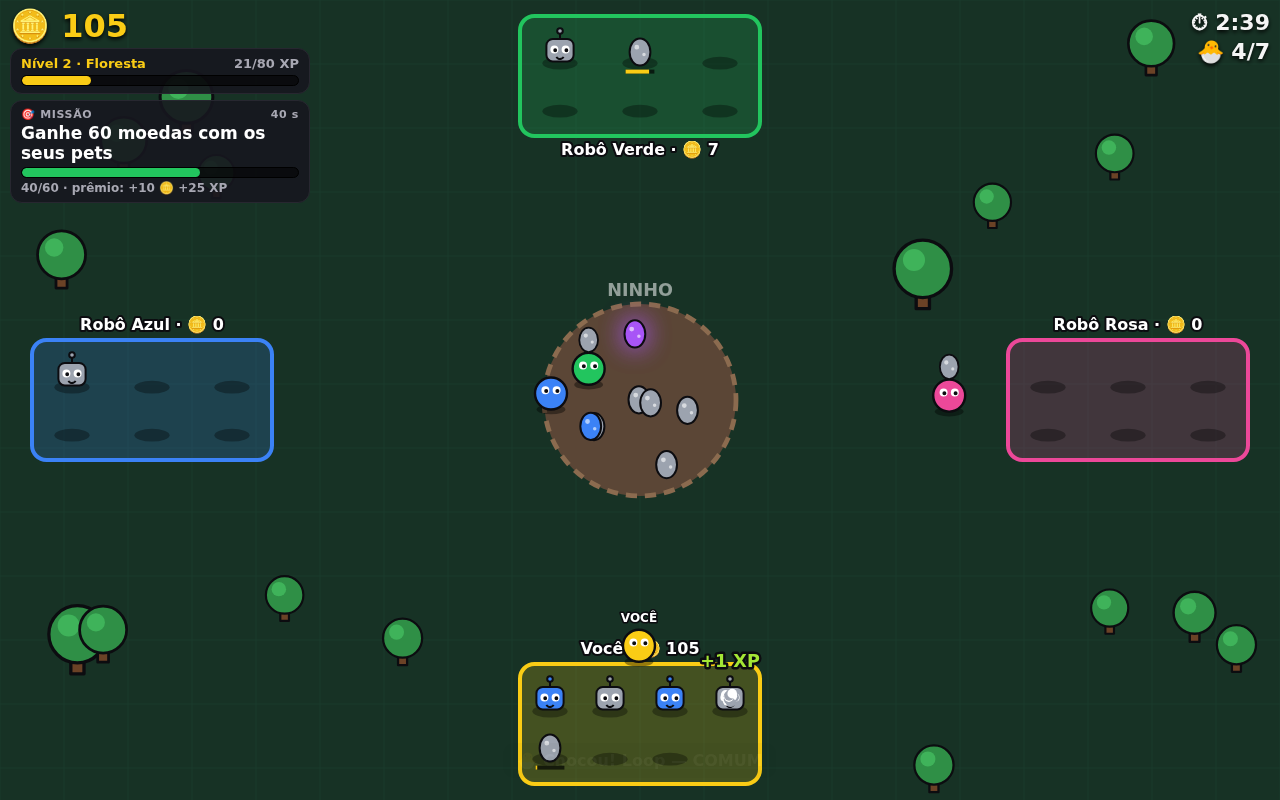
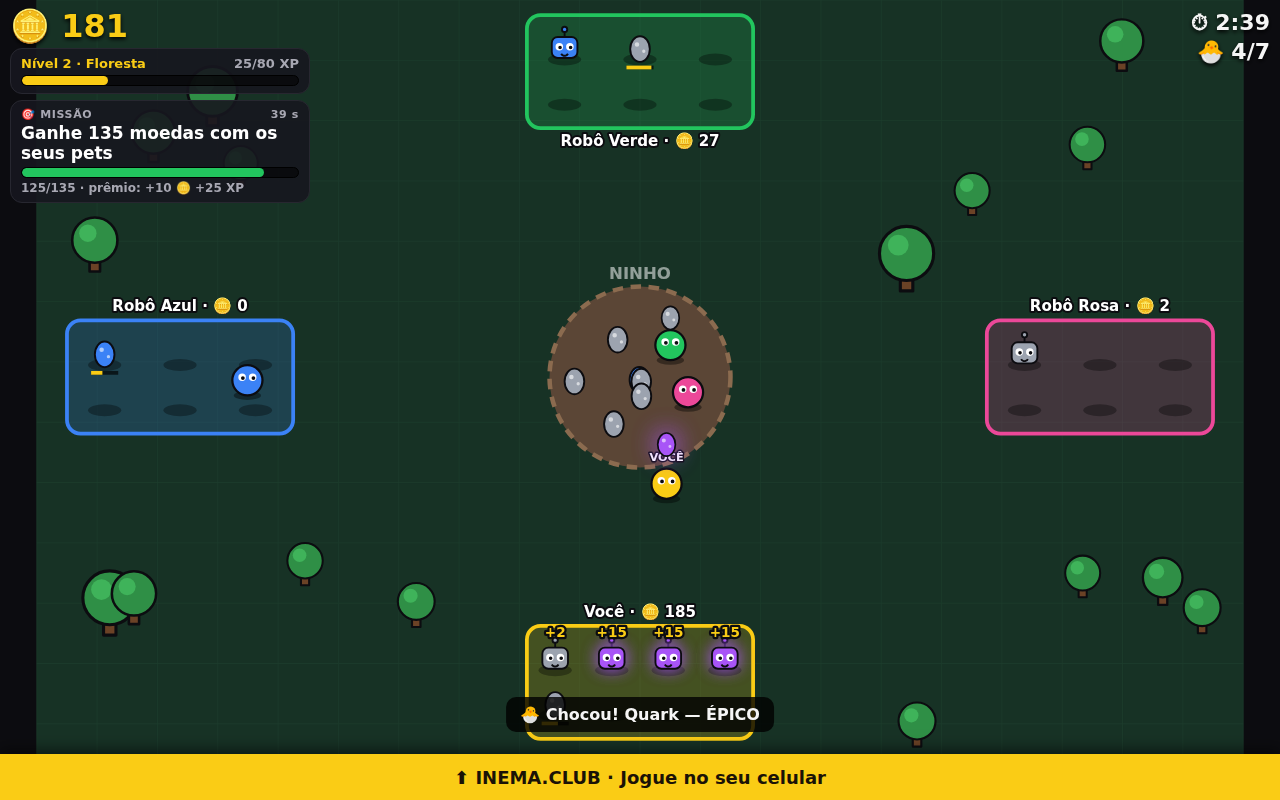
roube o ovo v0.3.0: painel INEMA.CLUB + QR embaixo do jogo

diff --git a/10-fabrica-de-jogos/jogos/roube-o-ovo/index.html b/10-fabrica-de-jogos/jogos/roube-o-ovo/index.html
@@ -6,14 +6,17 @@
 <title>Roube o Ovo — Fábrica de Jogos INEMA</title>
 <style>
   :root { --amarelo:#FACC15; --preto:#0c0c10; --texto:#f5f5f5; --painel:#16161ee6; --borda:#272730 }
-  html,body { margin:0; height:100%; background:var(--preto); color:var(--texto); overflow:hidden;
-              touch-action:none; user-select:none; -webkit-user-select:none; font-family:system-ui,-apple-system,"Segoe UI",sans-serif }
-  canvas { display:block; width:100vw; height:100vh }
+  /* a página rola (para mostrar o painel INEMA.CLUB embaixo), mas o jogo fica fixo atrás */
+  html { overflow-x:hidden; overflow-y:auto; overscroll-behavior:none }
+  html,body { margin:0; background:var(--preto); color:var(--texto);
+              touch-action:pan-y; user-select:none; -webkit-user-select:none; font-family:system-ui,-apple-system,"Segoe UI",sans-serif }
+  /* só o canvas trava o gesto (arrastar o dedo = mover o jogador) */
+  #c { display:block; position:fixed; inset:0; width:100vw; height:100vh; touch-action:none }
 
   /* HUD: painel da esquerda (moedas, nível, missão) e tempo/pets na direita */
   #hud { position:fixed; top:10px; left:10px; right:10px; display:flex; justify-content:space-between; align-items:flex-start; gap:8px;
          pointer-events:none; font-weight:800; text-shadow:0 2px 4px #000 }
-  #painel { display:flex; flex-direction:column; gap:6px; width:min(300px, 62vw) }
+  #hud-esq { display:flex; flex-direction:column; gap:6px; width:min(300px, 62vw) }
   #hud-moedas { font-size:clamp(22px,3.4vw,32px); color:var(--amarelo); line-height:1 }
   #hud-dir { display:flex; flex-direction:column; align-items:flex-end; gap:4px; font-size:clamp(16px,2.4vw,22px) }
   .cartao { background:var(--painel); border:1px solid var(--borda); border-radius:12px; padding:7px 10px; text-shadow:none }
@@ -29,7 +32,7 @@
   #missao.festa { animation:pop .9s ease-out }
   @keyframes pop { 0%{transform:scale(1)} 25%{transform:scale(1.12); background:#FACC15; color:#1a1206} 100%{transform:scale(1)} }
 
-  #botoes { position:fixed; right:14px; bottom:16px; display:flex; flex-direction:column; gap:10px }
+  #botoes { position:fixed; right:14px; bottom:62px; display:flex; flex-direction:column; gap:10px }
   .btn { background:var(--amarelo); color:#1a1206; border:0; border-radius:12px; font-weight:800;
          padding:12px 16px; font-size:clamp(14px,2vw,17px); cursor:pointer; box-shadow:0 4px 0 #a16207 }
   .btn:disabled { background:#555; color:#bbb; box-shadow:none }
@@ -42,7 +45,7 @@
   #tela table { margin:10px auto; border-collapse:collapse; font-size:17px }
   #tela td { padding:4px 12px; text-align:left }
   #tela .nv { display:inline-block; background:#1f2937; border-radius:10px; padding:8px 14px; font-weight:800; color:var(--amarelo) }
-  #aviso { position:fixed; left:50%; bottom:22px; transform:translateX(-50%); background:#000c; padding:8px 14px; border-radius:10px;
+  #aviso { position:fixed; left:50%; bottom:68px; transform:translateX(-50%); background:#000c; padding:8px 14px; border-radius:10px;
            font-weight:700; pointer-events:none; opacity:0; transition:opacity .3s; max-width:calc(100% - 150px); text-align:center; font-size:clamp(13px,2vw,16px) }
   /* faixa grande de comemoração (missão e nível) */
   #festa { position:fixed; left:50%; top:38%; transform:translate(-50%,-50%); text-align:center; pointer-events:none; opacity:0; z-index:4; width:90% }
@@ -53,12 +56,28 @@
                      20%{transform:translate(-50%,-50%) scale(1)} 80%{opacity:1} 100%{opacity:0; transform:translate(-50%,-60%) scale(1)} }
   .hidden { display:none !important }
   pre { text-align:left; background:#0b0b0f; padding:10px; border-radius:10px; overflow:auto; max-height:40vh; font-size:12px; white-space:pre-wrap }
+
+  /* ---------- painel INEMA.CLUB embaixo do jogo (deslize a tela para cima) ---------- */
+  #rolagem { position:relative; z-index:4; pointer-events:none }
+  #espaco { height:calc(100vh - 46px); height:calc(100dvh - 46px) }
+  #painel { pointer-events:auto; background:var(--preto); touch-action:pan-y; text-align:center; padding-bottom:28px }
+  #puxador { display:block; width:100%; height:46px; border:0; background:var(--amarelo); color:#1a1206; cursor:pointer;
+             font:800 clamp(14px,3.8vw,18px)/46px Sora,system-ui,sans-serif; box-shadow:0 -4px 14px #0008 }
+  #painel .faixa-g { background:var(--amarelo); color:#1a1206; font:800 clamp(24px,7vw,44px)/1.15 Sora,system-ui,sans-serif;
+                     padding:22px 16px 26px; border-top:4px solid var(--preto) }
+  #painel .faixa-g b { display:inline-block; background:var(--preto); color:var(--amarelo); padding:2px 14px; border-radius:10px; margin-top:8px }
+  #painel .qr-g { display:inline-block; background:#fff; color:#111; border-radius:16px; padding:14px 14px 10px; margin:22px 16px 10px }
+  #painel .qr-g svg { width:min(64vw,260px); height:auto; display:block }
+  #painel .qr-g p { margin:8px 0 0; font-weight:800 }
+  #painel .acoes-p { display:flex; gap:10px; justify-content:center; flex-wrap:wrap; margin:12px 16px }
+  #painel .txt-p { color:#d4d4d8; max-width:520px; margin:10px auto 0; padding:0 16px; line-height:1.5 }
+  #painel a { color:var(--amarelo) }
 </style>
 </head>
 <body>
 <canvas id="c"></canvas>
 <div id="hud">
-  <div id="painel">
+  <div id="hud-esq">
     <div id="hud-moedas">🪙 0</div>
     <div id="nivel" class="cartao">
       <div class="linha1"><span id="nv-txt">Nível 1 · Floresta</span><span id="xp-txt">0/40 XP</span></div>
@@ -79,11 +98,27 @@
   <button class="btn" id="b-tranca">🔒 Trancar</button>
   <button class="btn sec" id="b-turbo">⚡ Turbo</button>
 </div>
+<div id="rolagem">
+  <div id="espaco"></div>
+  <div id="painel">
+    <button id="puxador">⬆ INEMA.CLUB · Jogue no seu celular</button>
+    <div class="faixa-g">Aprenda a criar jogos com IA<br>de graça<br><b>INEMA.CLUB</b></div>
+    <div class="qr-g"><div id="qr-painel"></div><p>📱 Jogue no seu celular</p></div>
+    <div class="acoes-p">
+      <button class="btn" id="p-baixar">⬇ Baixar o jogo</button>
+      <button class="btn" id="p-voltar">⬆ Voltar ao jogo</button>
+    </div>
+    <p class="txt-p">Baixe o jogo, abra num editor de texto e mude o <b>CONFIG</b>. Depois peça para uma IA criar robôs, pets, missões e cenários novos.
+      Mais jogos na <a href="../../">Fábrica de Jogos INEMA</a> · cursos grátis em <a href="https://inema.club" target="_blank" rel="noopener">inema.club</a></p>
+  </div>
+</div>
 <div id="tela"><div class="caixa" id="tela-conteudo"></div></div>
+<!-- QR code com o endereço do jogo (vem do arquivo qr-jogo.svg; fica aqui dentro para funcionar sem internet) -->
+<template id="tpl-qr"><svg version="1.1" viewBox="0 0 41 41" xmlns="http://www.w3.org/2000/svg"><path d="M2,2H3V3H2zM3,2H4V3H3zM4,2H5V3H4zM5,2H6V3H5zM6,2H7V3H6zM7,2H8V3H7zM8,2H9V3H8zM10,2H11V3H10zM12,2H13V3H12zM13,2H14V3H13zM14,2H15V3H14zM16,2H17V3H16zM17,2H18V3H17zM20,2H21V3H20zM21,2H22V3H21zM23,2H24V3H23zM25,2H26V3H25zM27,2H28V3H27zM28,2H29V3H28zM29,2H30V3H29zM30,2H31V3H30zM32,2H33V3H32zM33,2H34V3H33zM34,2H35V3H34zM35,2H36V3H35zM36,2H37V3H36zM37,2H38V3H37zM38,2H39V3H38zM2,3H3V4H2zM8,3H9V4H8zM11,3H12V4H11zM12,3H13V4H12zM14,3H15V4H14zM18,3H19V4H18zM22,3H23V4H22zM26,3H27V4H26zM28,3H29V4H28zM32,3H33V4H32zM38,3H39V4H38zM2,4H3V5H2zM4,4H5V5H4zM5,4H6V5H5zM6,4H7V5H6zM8,4H9V5H8zM11,4H12V5H11zM13,4H14V5H13zM14,4H15V5H14zM15,4H16V5H15zM16,4H17V5H16zM17,4H18V5H17zM19,4H20V5H19zM21,4H22V5H21zM22,4H23V5H22zM23,4H24V5H23zM28,4H29V5H28zM30,4H31V5H30zM32,4H33V5H32zM34,4H35V5H34zM35,4H36V5H35zM36,4H37V5H36zM38,4H39V5H38zM2,5H3V6H2zM4,5H5V6H4zM5,5H6V6H5zM6,5H7V6H6zM8,5H9V6H8zM10,5H11V6H10zM11,5H12V6H11zM13,5H14V6H13zM15,5H16V6H15zM17,5H18V6H17zM18,5H19V6H18zM20,5H21V6H20zM21,5H22V6H21zM22,5H23V6H22zM25,5H26V6H25zM27,5H28V6H27zM32,5H33V6H32zM34,5H35V6H34zM35,5H36V6H35zM36,5H37V6H36zM38,5H39V6H38zM2,6H3V7H2zM4,6H5V7H4zM5,6H6V7H5zM6,6H7V7H6zM8,6H9V7H8zM10,6H11V7H10zM11,6H12V7H11zM12,6H13V7H12zM13,6H14V7H13zM15,6H16V7H15zM16,6H17V7H16zM20,6H21V7H20zM25,6H26V7H25zM28,6H29V7H28zM29,6H30V7H29zM30,6H31V7H30zM32,6H33V7H32zM34,6H35V7H34zM35,6H36V7H35zM36,6H37V7H36zM38,6H39V7H38zM2,7H3V8H2zM8,7H9V8H8zM10,7H11V8H10zM11,7H12V8H11zM12,7H13V8H12zM13,7H14V8H13zM14,7H15V8H14zM15,7H16V8H15zM16,7H17V8H16zM18,7H19V8H18zM20,7H21V8H20zM21,7H22V8H21zM24,7H25V8H24zM26,7H27V8H26zM32,7H33V8H32zM38,7H39V8H38zM2,8H3V9H2zM3,8H4V9H3zM4,8H5V9H4zM5,8H6V9H5zM6,8H7V9H6zM7,8H8V9H7zM8,8H9V9H8zM10,8H11V9H10zM12,8H13V9H12zM14,8H15V9H14zM16,8H17V9H16zM18,8H19V9H18zM20,8H21V9H20zM22,8H23V9H22zM24,8H25V9H24zM26,8H27V9H26zM28,8H29V9H28zM30,8H31V9H30zM32,8H33V9H32zM33,8H34V9H33zM34,8H35V9H34zM35,8H36V9H35zM36,8H37V9H36zM37,8H38V9H37zM38,8H39V9H38zM10,9H11V10H10zM13,9H14V10H13zM15,9H16V10H15zM16,9H17V10H16zM19,9H20V10H19zM20,9H21V10H20zM23,9H24V10H23zM26,9H27V10H26zM28,9H29V10H28zM29,9H30V10H29zM2,10H3V11H2zM6,10H7V11H6zM8,10H9V11H8zM9,10H10V11H9zM10,10H11V11H10zM12,10H13V11H12zM13,10H14V11H13zM16,10H17V11H16zM20,10H21V11H20zM21,10H22V11H21zM22,10H23V11H22zM23,10H24V11H23zM25,10H26V11H25zM26,10H27V11H26zM31,10H32V11H31zM32,10H33V11H32zM33,10H34V11H33zM34,10H35V11H34zM35,10H36V11H35zM38,10H39V11H38zM4,11H5V12H4zM5,11H6V12H5zM6,11H7V12H6zM9,11H10V12H9zM10,11H11V12H10zM15,11H16V12H15zM18,11H19V12H18zM21,11H22V12H21zM22,11H23V12H22zM23,11H24V12H23zM25,11H26V12H25zM28,11H29V12H28zM29,11H30V12H29zM30,11H31V12H30zM34,11H35V12H34zM36,11H37V12H36zM37,11H38V12H37zM4,12H5V13H4zM5,12H6V13H5zM6,12H7V13H6zM7,12H8V13H7zM8,12H9V13H8zM10,12H11V13H10zM14,12H15V13H14zM15,12H16V13H15zM16,12H17V13H16zM18,12H19V13H18zM19,12H20V13H19zM20,12H21V13H20zM22,12H23V13H22zM25,12H26V13H25zM26,12H27V13H26zM27,12H28V13H27zM28,12H29V13H28zM29,12H30V13H29zM31,12H32V13H31zM32,12H33V13H32zM33,12H34V13H33zM36,12H37V13H36zM4,13H5V14H4zM5,13H6V14H5zM9,13H10V14H9zM11,13H12V14H11zM19,13H20V14H19zM20,13H21V14H20zM21,13H22V14H21zM22,13H23V14H22zM23,13H24V14H23zM25,13H26V14H25zM26,13H27V14H26zM33,13H34V14H33zM34,13H35V14H34zM36,13H37V14H36zM37,13H38V14H37zM6,14H7V15H6zM8,14H9V15H8zM9,14H10V15H9zM11,14H12V15H11zM12,14H13V15H12zM14,14H15V15H14zM17,14H18V15H17zM19,14H20V15H19zM22,14H23V15H22zM23,14H24V15H23zM26,14H27V15H26zM29,14H30V15H29zM31,14H32V15H31zM32,14H33V15H32zM33,14H34V15H33zM36,14H37V15H36zM37,14H38V15H37zM38,14H39V15H38zM9,15H10V16H9zM14,15H15V16H14zM17,15H18V16H17zM18,15H19V16H18zM19,15H20V16H19zM20,15H21V16H20zM23,15H24V16H23zM25,15H26V16H25zM26,15H27V16H26zM27,15H28V16H27zM28,15H29V16H28zM29,15H30V16H29zM30,15H31V16H30zM34,15H35V16H34zM35,15H36V16H35zM4,16H5V17H4zM7,16H8V17H7zM8,16H9V17H8zM10,16H11V17H10zM11,16H12V17H11zM17,16H18V17H17zM18,16H19V17H18zM20,16H21V17H20zM23,16H24V17H23zM25,16H26V17H25zM27,16H28V17H27zM28,16H29V17H28zM29,16H30V17H29zM30,16H31V17H30zM31,16H32V17H31zM32,16H33V17H32zM33,16H34V17H33zM34,16H35V17H34zM35,16H36V17H35zM36,16H37V17H36zM2,17H3V18H2zM4,17H5V18H4zM5,17H6V18H5zM6,17H7V18H6zM7,17H8V18H7zM10,17H11V18H10zM11,17H12V18H11zM13,17H14V18H13zM14,17H15V18H14zM15,17H16V18H15zM21,17H22V18H21zM23,17H24V18H23zM28,17H29V18H28zM29,17H30V18H29zM31,17H32V18H31zM32,17H33V18H32zM33,17H34V18H33zM34,17H35V18H34zM36,17H37V18H36zM37,17H38V18H37zM38,17H39V18H38zM3,18H4V19H3zM4,18H5V19H4zM5,18H6V19H5zM8,18H9V19H8zM13,18H14V19H13zM14,18H15V19H14zM15,18H16V19H15zM16,18H17V19H16zM18,18H19V19H18zM21,18H22V19H21zM22,18H23V19H22zM23,18H24V19H23zM24,18H25V19H24zM31,18H32V19H31zM32,18H33V19H32zM33,18H34V19H33zM35,18H36V19H35zM36,18H37V19H36zM38,18H39V19H38zM2,19H3V20H2zM4,19H5V20H4zM5,19H6V20H5zM6,19H7V20H6zM10,19H11V20H10zM12,19H13V20H12zM14,19H15V20H14zM15,19H16V20H15zM20,19H21V20H20zM22,19H23V20H22zM23,19H24V20H23zM25,19H26V20H25zM27,19H28V20H27zM28,19H29V20H28zM29,19H30V20H29zM33,19H34V20H33zM34,19H35V20H34zM37,19H38V20H37zM3,20H4V21H3zM5,20H6V21H5zM6,20H7V21H6zM8,20H9V21H8zM12,20H13V21H12zM13,20H14V21H13zM14,20H15V21H14zM17,20H18V21H17zM22,20H23V21H22zM25,20H26V21H25zM26,20H27V21H26zM27,20H28V21H27zM28,20H29V21H28zM29,20H30V21H29zM32,20H33V21H32zM33,20H34V21H33zM2,21H3V22H2zM5,21H6V22H5zM9,21H10V22H9zM11,21H12V22H11zM12,21H13V22H12zM13,21H14V22H13zM14,21H15V22H14zM15,21H16V22H15zM16,21H17V22H16zM17,21H18V22H17zM18,21H19V22H18zM19,21H20V22H19zM20,21H21V22H20zM21,21H22V22H21zM22,21H23V22H22zM23,21H24V22H23zM26,21H27V22H26zM28,21H29V22H28zM30,21H31V22H30zM31,21H32V22H31zM32,21H33V22H32zM33,21H34V22H33zM36,21H37V22H36zM37,21H38V22H37zM4,22H5V23H4zM5,22H6V23H5zM8,22H9V23H8zM9,22H10V23H9zM10,22H11V23H10zM11,22H12V23H11zM13,22H14V23H13zM19,22H20V23H19zM20,22H21V23H20zM23,22H24V23H23zM24,22H25V23H24zM25,22H26V23H25zM26,22H27V23H26zM30,22H31V23H30zM31,22H32V23H31zM32,22H33V23H32zM33,22H34V23H33zM36,22H37V23H36zM3,23H4V24H3zM4,23H5V24H4zM6,23H7V24H6zM12,23H13V24H12zM14,23H15V24H14zM17,23H18V24H17zM18,23H19V24H18zM20,23H21V24H20zM23,23H24V24H23zM25,23H26V24H25zM28,23H29V24H28zM29,23H30V24H29zM30,23H31V24H30zM33,23H34V24H33zM34,23H35V24H34zM37,23H38V24H37zM2,24H3V25H2zM4,24H5V25H4zM5,24H6V25H5zM8,24H9V25H8zM9,24H10V25H9zM11,24H12V25H11zM12,24H13V25H12zM17,24H18V25H17zM19,24H20V25H19zM25,24H26V25H25zM26,24H27V25H26zM27,24H28V25H27zM28,24H29V25H28zM29,24H30V25H29zM32,24H33V25H32zM33,24H34V25H33zM34,24H35V25H34zM35,24H36V25H35zM36,24H37V25H36zM2,25H3V26H2zM7,25H8V26H7zM14,25H15V26H14zM16,25H17V26H16zM17,25H18V26H17zM19,25H20V26H19zM20,25H21V26H20zM22,25H23V26H22zM23,25H24V26H23zM25,25H26V26H25zM26,25H27V26H26zM28,25H29V26H28zM29,25H30V26H29zM30,25H31V26H30zM32,25H33V26H32zM33,25H34V26H33zM34,25H35V26H34zM36,25H37V26H36zM37,25H38V26H37zM38,25H39V26H38zM2,26H3V27H2zM8,26H9V27H8zM9,26H10V27H9zM10,26H11V27H10zM11,26H12V27H11zM15,26H16V27H15zM16,26H17V27H16zM17,26H18V27H17zM20,26H21V27H20zM21,26H22V27H21zM22,26H23V27H22zM23,26H24V27H23zM26,26H27V27H26zM30,26H31V27H30zM31,26H32V27H31zM32,26H33V27H32zM33,26H34V27H33zM35,26H36V27H35zM36,26H37V27H36zM38,26H39V27H38zM2,27H3V28H2zM4,27H5V28H4zM5,27H6V28H5zM7,27H8V28H7zM9,27H10V28H9zM10,27H11V28H10zM15,27H16V28H15zM16,27H17V28H16zM18,27H19V28H18zM19,27H20V28H19zM23,27H24V28H23zM25,27H26V28H25zM29,27H30V28H29zM30,27H31V28H30zM34,27H35V28H34zM5,28H6V29H5zM6,28H7V29H6zM8,28H9V29H8zM9,28H10V29H9zM12,28H13V29H12zM18,28H19V29H18zM20,28H21V29H20zM23,28H24V29H23zM25,28H26V29H25zM29,28H30V29H29zM36,28H37V29H36zM4,29H5V30H4zM5,29H6V30H5zM7,29H8V30H7zM13,29H14V30H13zM15,29H16V30H15zM16,29H17V30H16zM19,29H20V30H19zM20,29H21V30H20zM21,29H22V30H21zM22,29H23V30H22zM23,29H24V30H23zM28,29H29V30H28zM33,29H34V30H33zM35,29H36V30H35zM36,29H37V30H36zM38,29H39V30H38zM2,30H3V31H2zM3,30H4V31H3zM6,30H7V31H6zM8,30H9V31H8zM10,30H11V31H10zM11,30H12V31H11zM12,30H13V31H12zM14,30H15V31H14zM15,30H16V31H15zM16,30H17V31H16zM17,30H18V31H17zM19,30H20V31H19zM20,30H21V31H20zM21,30H22V31H21zM23,30H24V31H23zM24,30H25V31H24zM29,30H30V31H29zM30,30H31V31H30zM31,30H32V31H31zM32,30H33V31H32zM33,30H34V31H33zM34,30H35V31H34zM36,30H37V31H36zM10,31H11V32H10zM11,31H12V32H11zM12,31H13V32H12zM13,31H14V32H13zM17,31H18V32H17zM19,31H20V32H19zM23,31H24V32H23zM25,31H26V32H25zM27,31H28V32H27zM30,31H31V32H30zM34,31H35V32H34zM2,32H3V33H2zM3,32H4V33H3zM4,32H5V33H4zM5,32H6V33H5zM6,32H7V33H6zM7,32H8V33H7zM8,32H9V33H8zM10,32H11V33H10zM11,32H12V33H11zM16,32H17V33H16zM17,32H18V33H17zM18,32H19V33H18zM20,32H21V33H20zM22,32H23V33H22zM23,32H24V33H23zM25,32H26V33H25zM27,32H28V33H27zM30,32H31V33H30zM32,32H33V33H32zM34,32H35V33H34zM2,33H3V34H2zM8,33H9V34H8zM14,33H15V34H14zM17,33H18V34H17zM18,33H19V34H18zM21,33H22V34H21zM23,33H24V34H23zM25,33H26V34H25zM28,33H29V34H28zM30,33H31V34H30zM34,33H35V34H34zM35,33H36V34H35zM36,33H37V34H36zM2,34H3V35H2zM4,34H5V35H4zM5,34H6V35H5zM6,34H7V35H6zM8,34H9V35H8zM10,34H11V35H10zM11,34H12V35H11zM16,34H17V35H16zM18,34H19V35H18zM21,34H22V35H21zM23,34H24V35H23zM24,34H25V35H24zM25,34H26V35H25zM28,34H29V35H28zM30,34H31V35H30zM31,34H32V35H31zM32,34H33V35H32zM33,34H34V35H33zM34,34H35V35H34zM35,34H36V35H35zM36,34H37V35H36zM38,34H39V35H38zM2,35H3V36H2zM4,35H5V36H4zM5,35H6V36H5zM6,35H7V36H6zM8,35H9V36H8zM11,35H12V36H11zM13,35H14V36H13zM14,35H15V36H14zM15,35H16V36H15zM20,35H21V36H20zM23,35H24V36H23zM25,35H26V36H25zM27,35H28V36H27zM28,35H29V36H28zM29,35H30V36H29zM31,35H32V36H31zM32,35H33V36H32zM33,35H34V36H33zM35,35H36V36H35zM36,35H37V36H36zM38,35H39V36H38zM2,36H3V37H2zM4,36H5V37H4zM5,36H6V37H5zM6,36H7V37H6zM8,36H9V37H8zM11,36H12V37H11zM12,36H13V37H12zM15,36H16V37H15zM17,36H18V37H17zM19,36H20V37H19zM22,36H23V37H22zM25,36H26V37H25zM26,36H27V37H26zM28,36H29V37H28zM31,36H32V37H31zM32,36H33V37H32zM36,36H37V37H36zM2,37H3V38H2zM8,37H9V38H8zM12,37H13V38H12zM14,37H15V38H14zM16,37H17V38H16zM17,37H18V38H17zM18,37H19V38H18zM19,37H20V38H19zM20,37H21V38H20zM21,37H22V38H21zM22,37H23V38H22zM23,37H24V38H23zM26,37H27V38H26zM29,37H30V38H29zM34,37H35V38H34zM36,37H37V38H36zM37,37H38V38H37zM2,38H3V39H2zM3,38H4V39H3zM4,38H5V39H4zM5,38H6V39H5zM6,38H7V39H6zM7,38H8V39H7zM8,38H9V39H8zM10,38H11V39H10zM11,38H12V39H11zM13,38H14V39H13zM16,38H17V39H16zM18,38H19V39H18zM19,38H20V39H19zM20,38H21V39H20zM23,38H24V39H23zM24,38H25V39H24zM25,38H26V39H25zM26,38H27V39H26zM29,38H30V39H29zM31,38H32V39H31zM33,38H34V39H33zM36,38H37V39H36zM37,38H38V39H37zM38,38H39V39H38z" id="qr-path" fill="#000000" fill-opacity="1" fill-rule="nonzero" stroke="none" /></svg></template>
 
 <script>
 /* =====================================================================
-   ROUBE O OVO — Fábrica de Jogos INEMA (versão 0.2.0)
+   ROUBE O OVO — Fábrica de Jogos INEMA (versão 0.3.0)
    ---------------------------------------------------------------------
    QUER CRIAR A SUA VERSÃO? Comece mudando os valores do CONFIG abaixo.
    Salve o arquivo e abra de novo no navegador para ver o efeito.
@@ -172,7 +207,7 @@ const CONFIG = {
 };
 /* ===================== daqui para baixo é o motor ===================== */
 
-const VERSAO = "0.2.0";
+const VERSAO = "0.3.0";
 const W = 1600, H = 1000;
 const FONTE_HTML = "<!doctype html>\n" + document.documentElement.outerHTML;
 const cv = document.getElementById("c"), ctx = cv.getContext("2d");
@@ -181,15 +216,23 @@ const params = new URLSearchParams(location.search);
 const DEMO = params.has("demo");          // ?demo=1 → o jogo joga sozinho (vitrine do estande)
 const CODIGO_OVO = (params.get("ovo") || "").toUpperCase();
 const CHAVE_PROGRESSO = "roube-ovo-progresso";
+const FAIXA = 46;                         // altura da faixa amarela INEMA.CLUB fixa embaixo da tela (px)
+
+// painel embaixo do jogo: o puxador amarelo sobe o painel; "Voltar ao jogo" desce
+$("qr-painel").innerHTML = $("tpl-qr").innerHTML;   // o desenho do QR code (fica no <template>)
+$("puxador").onclick = () => scrollTo({ top: $("painel").offsetTop, behavior: "smooth" });
+$("p-voltar").onclick = () => scrollTo({ top: 0, behavior: "smooth" });
+$("p-baixar").onclick = () => baixar();
 
 let escala = 1, ox = 0, oy = 0, retrato = false;
 function redimensiona() {
   const dpr = window.devicePixelRatio || 1;
   cv.width = innerWidth * dpr; cv.height = innerHeight * dpr;
+  const util = cv.height - FAIXA * dpr;   // altura que sobra acima da faixa amarela
   // celular em pé: o mapa fica maior e a câmera segue você (mostra uma parte do mapa por vez)
   retrato = cv.height > cv.width * 1.2;
-  escala = retrato ? Math.min(cv.height * 0.6 / H, cv.width / (W * 0.45)) : Math.min(cv.width / W, cv.height / H);
-  ox = (cv.width - W * escala) / 2; oy = retrato ? cv.height * 0.24 : (cv.height - H * escala) / 2;
+  escala = retrato ? Math.min(cv.height * 0.56 / H, cv.width / (W * 0.45)) : Math.min(cv.width / W, util / H);
+  ox = (cv.width - W * escala) / 2; oy = retrato ? cv.height * 0.24 : (util - H * escala) / 2;
 }
 function camera() {
   if (!retrato) return;
@@ -384,7 +427,10 @@ function explode(x, y, n, cores) {
 
 // ---------- entrada (teclado + toque) ----------
 const teclas = {};
-addEventListener("keydown", e => { teclas[e.key.toLowerCase()] = true;
+addEventListener("keydown", e => {
+  // a página agora rola: setas e espaço servem ao jogo, não para rolar a tela
+  if ([" ", "ArrowUp", "ArrowDown", "ArrowLeft", "ArrowRight"].includes(e.key) && e.target === document.body) e.preventDefault();
+  teclas[e.key.toLowerCase()] = true;
   if (e.key === " ") trancar(); if (e.key.toLowerCase() === "t") turbo(); });
 addEventListener("keyup", e => { teclas[e.key.toLowerCase()] = false; });
 const joy = { ativo: false, id: null, x0: 0, y0: 0, dx: 0, dy: 0 };
